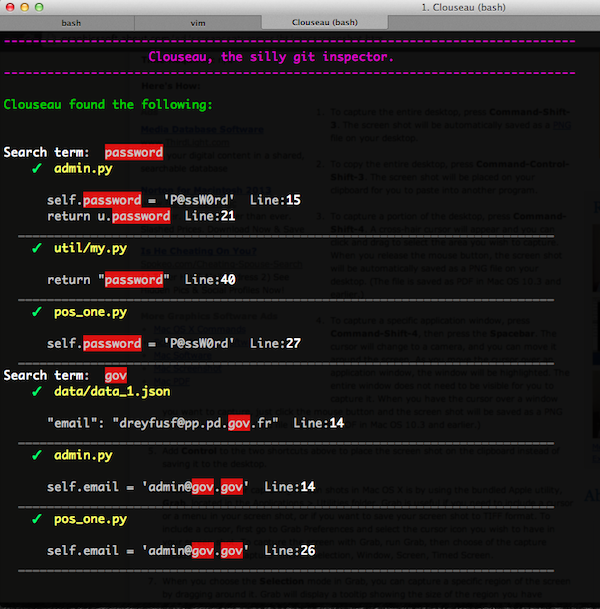
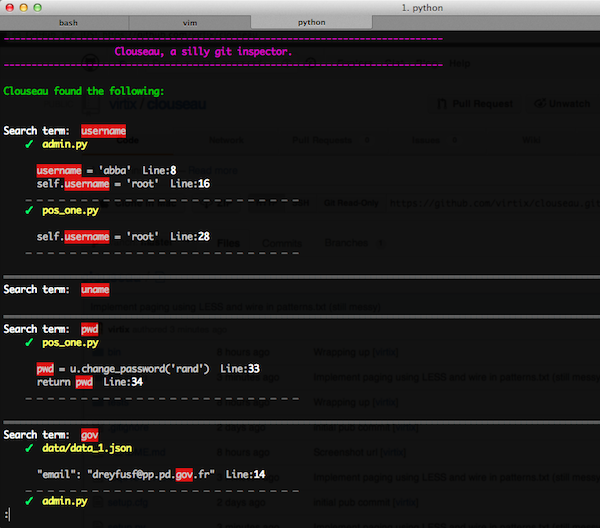
New screenshot and fix silly header in console output

diff --git a/clouseau/templates/console.html b/clouseau/templates/console.html
@@ -4,9 +4,9 @@
 {% macro fail() %}
     {{'✖'|darkred}}
 {%-endmacro%}
-{{'-------------------------------------------------------------------------------
-                    Clouseau, a silly git inspector.
--------------------------------------------------------------------------------'|purple}}
+{{'-------------------------------------------------------------------------------'|purple}}
+{{'                    Clouseau, a silly git inspector.                           '|purple}}
+{{'-------------------------------------------------------------------------------'|purple}}
 
 {{ "Clouseau found the following:"|darkgreen }}
 {# {{ data|green }} #}
